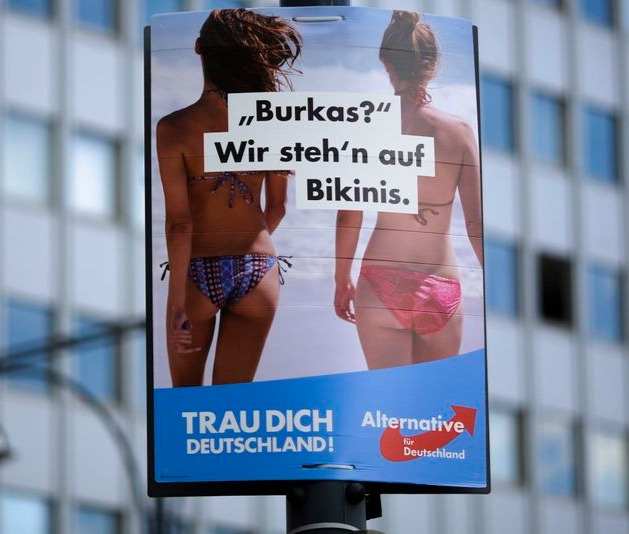
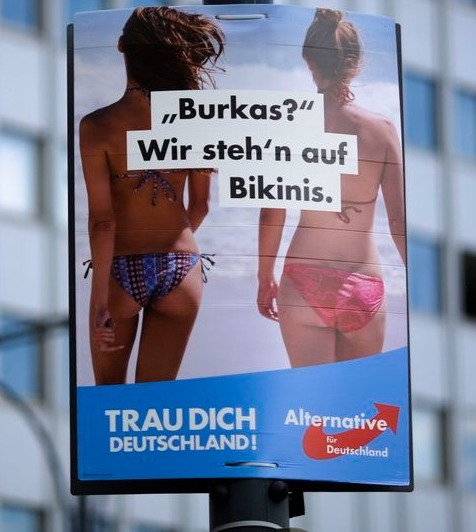
ad pic

diff --git a/media.html b/media.html
@@ -67,7 +67,7 @@
             <!-- Two -->
             <section id="two" class="spotlights">
                 <section>
-                    <img src="images/pic08.jpg" alt="" data-position="center center" />
+                    <img src="images/ad.jpg" alt="" data-position="center center" />
                     <div class="content">
                         <div class="inner">
                             <p> In the eve of the 2017 federal elections in Germany, the far-right Alternative for
